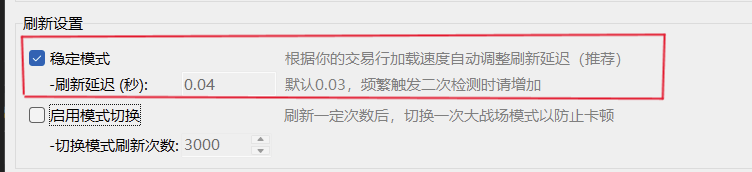
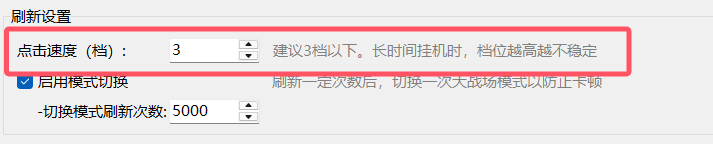
更新教程

Changed region(s): [[0.0, 0.0, 0.8948, 1.0], [0.2468, 0.3056, 0.2777, 0.3611]]

diff --git a/docs/kk_trader/kk_trader_guide.md b/docs/kk_trader/kk_trader_guide.md
@@ -76,9 +76,9 @@
 ### 刷新设置
 由于每个人的电脑配置、网速不同，每次刷新进入购买页面的速度也不同，这里设置每次刷新页面后等待的时间。
 
-::: info 稳定模式
+::: info 点击速度
 <img src="/images/刷新设置1.png" alt="Pulpit rock" width="600" height="228">
-开启后软件会自动以合适的刷新速度进行刷新。如果关闭稳定模式，请在自行测试后在下方设置合适的刷新延迟，以保证软件运行时不会出错。
+调整点击速度，一共11个档位，档位越高点击速度越快。由于交易行会越刷越卡，点击速度过快可能导致点击失败，所以长时间挂机时建议档位在3档以下。
 :::
 
 ::: info 启用模式切换
